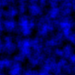
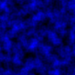
UI Bar
Added a UI bar to the bottom of the screen.

diff --git a/core/src/com/mygdx/game/Main.java b/core/src/com/mygdx/game/Main.java
@@ -7,12 +7,12 @@ import com.badlogic.gdx.assets.AssetManager;
 import com.badlogic.gdx.graphics.GL20;
 import com.badlogic.gdx.graphics.OrthographicCamera;
 import com.badlogic.gdx.graphics.Texture;
+import com.badlogic.gdx.graphics.g2d.Sprite;
 import com.badlogic.gdx.graphics.g2d.SpriteBatch;
 import com.badlogic.gdx.utils.viewport.FitViewport;
 import com.badlogic.gdx.utils.viewport.Viewport;
 import java.awt.Dimension;
 import java.awt.Point;
-import java.util.Random;
 
 public class Main extends ApplicationAdapter {
     
@@ -26,6 +26,7 @@ public class Main extends ApplicationAdapter {
         private int viewX = 1920, viewY = 1080;
         private Tile[][] tiles;
         private Point clickStore = null;
+        private Sprite uiBar;
 	
 	@Override
 	public void create () {
@@ -33,6 +34,9 @@ public class Main extends ApplicationAdapter {
                 camera = new OrthographicCamera();
                 viewport = new FitViewport(viewX, viewY, camera);
                 tiles = Tile.generateMap(mapSizeX, mapSizeY, new Dimension(viewX, viewY));
+                manager.load("UI/UI.png", Texture.class);
+                manager.finishLoading();
+                uiBar = new Sprite(manager.get("UI/UI.png", Texture.class));
 	}
 
 	@Override
@@ -103,6 +107,7 @@ public class Main extends ApplicationAdapter {
                         tiles[x][y].getSprite().draw(batch);
                     }
                 }
+                uiBar.draw(batch);
 		batch.end();
 	}
 	
